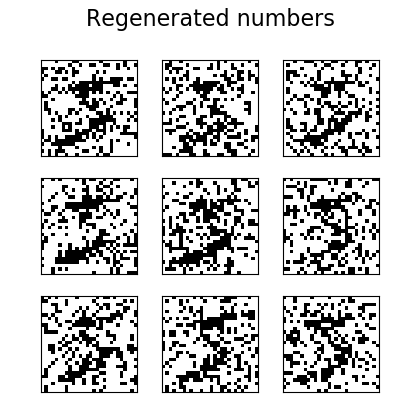
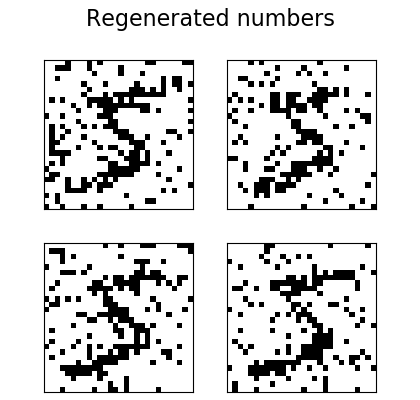
made nk, works with any graph

Changed region(s): [[0.0929, 0.15, 0.9286, 0.99]]

diff --git a/message_pass.py b/message_pass.py
@@ -6,9 +6,8 @@ from torch.utils.data import DataLoader
 
 class SparseMP():
 
-    def __init__(self, adj, local, adj_list, lr=0.1, damping=1., eps=1e-16, epochs=100, max_iters=10, batch_size=1, device=torch.device("cpu")):
+    def __init__(self, adj, local, row, col, lr=0.1, damping=1., eps=1e-16, epochs=100, max_iters=10, batch_size=1, device=torch.device("cpu")):
         #torch.manual_seed(0)
-        n = adj.shape[0]
         self.device = device
         self.max_iters = max_iters
         self.lr = lr
@@ -18,7 +17,8 @@ class SparseMP():
         self.batch_size = batch_size
         self.adj = adj
         self.local = local
-        self.adj_list = adj_list
+        self.row = row
+        self.col = col
 
     def train(self, train_set):
         """ Perform training for k-regular graph using loopy bp.
@@ -39,29 +39,24 @@ class SparseMP():
             self.update(data)
             i += 1
 
-    def in_to_out(self, message_in, adj_list):
-        n = adj_list.shape[0]
-        k = adj_list.shape[1]
-        range = torch.arange(n, dtype=torch.long, device=self.device).unsqueeze(1).expand(-1, k).contiguous().view(-1).unsqueeze(1)
-        mask = (adj_list.index_select(0, adj_list.view(-1)) == range)
-        return message_in.index_select(0, adj_list.view(-1))[mask]
-
     def free_mp(self):
         """ Message-passing for unclamped graphical model.
         """
         adj = self.adj
-        n = adj.shape[0]
-        k = adj.shape[1]
-        local = self.local.unsqueeze(1).expand(-1, k)
-        adj_list = self.adj_list
+        local = self.local
+        row = self.row
+        col= self.col
+        n = local.shape[0]
+        m = adj.shape[0]
+
         # Initialize to zeros because using log ratio
-        message_old = torch.zeros(n, k, device=self.device)
-        message_new = torch.zeros(n, k, device=self.device)
+        message_old = torch.zeros(m, device=self.device)
+        message_new = torch.zeros(m, device=self.device)
         iters = 0
         while iters == 0 or (iters < self.max_iters and torch.max(torch.abs(message_new - message_old)) > self.eps):
             message_old = message_new.clone()
-            message = torch.sum(message_old, 1).unsqueeze(1).expand(-1, k) - message_old
-            message_new = self.in_to_out(torch.log((torch.exp(local + adj + message) + 1) / (torch.exp(local + message) + 1)), adj_list).view(n, -1)
+            message = (torch.zeros(n, device=self.device).index_add_(0, row, message_old)[row] - message_old)[col]
+            message_new = torch.log((torch.exp(local[col] + adj + message) + 1) / (torch.exp(local[col] + message) + 1))
             message_new = message_new * self.damping + message_old * (1 - self.damping)
             iters+=1
         print("     %d iterations until convergence" % (iters))
@@ -74,33 +69,28 @@ class SparseMP():
         data : array-like, shape (n_data ** 2, n_batch)
             The data to use for training.
         """
-        n = self.adj.shape[0]
-        adj = self.adj.unsqueeze(2).expand(n, -1, self.batch_size)
-        k = adj.shape[1]
+        adj = self.adj.unsqueeze(1).expand(-1, self.batch_size)
         local = self.local.unsqueeze(1).expand(-1, self.batch_size)
-        adj_list = self.adj_list
+        row = self.row
+        col = self.col
+        n = local.shape[0]
         clamp = data.shape[0]
         # Add interaction of clamped units to local biases based on data vectors
-        data_adj = adj.clone()
-        data_adj[adj_list < clamp] *= data[adj_list[adj_list < clamp]]
-        data_adj[adj_list >= clamp] = 0
-        local += torch.sum(data_adj, 1)
-        local = torch.transpose(local.unsqueeze(2).expand(n, -1, k), 1, 2)
+        local.index_add_(0, col[row < clamp], adj[row < clamp] * data[row[row < clamp]])
         # Set interaction of clamped units to 0
-        adj[:clamp, :, :] = 0
-        adj[adj_list < clamp] = 0
+        adj[row < clamp] = 0
+        adj[col < clamp] = 0
 
-        message_old = self.message_free.clone().unsqueeze(2).repeat(1, 1, self.batch_size)
+        message_old = self.message_free.unsqueeze(1).repeat(1, self.batch_size)
         message_new = message_old.clone()
 
         iters = 0
         while iters == 0 or iters < self.max_iters and torch.max(torch.abs(message_new - message_old)) > self.eps:
             message_old = message_new.clone()
-            message = torch.transpose(torch.sum(message_old, 1).unsqueeze(2).expand(n, -1, k), 1, 2) - message_old
-            message_new = self.in_to_out(torch.log((torch.exp(local + adj + message) + 1) / (torch.exp(local + message) + 1)), adj_list=adj_list).view(n, -1, self.batch_size)
+            message = (torch.zeros((n, self.batch_size), device=self.device).index_add_(0, row, message_old)[row] - message_old)[col]
+            message_new = torch.log((torch.exp(local[col] + adj + message) + 1) / (torch.exp(local[col] + message) + 1))
             message_new = message_new * self.damping + message_old * (1 - self.damping)
             iters+=1
-
         self.message_clamp = message_new
 
     def update(self, data):
@@ -112,37 +102,32 @@ class SparseMP():
         """
         adj = self.adj
         local = self.local
-        adj_list = self.adj_list.clone()
-        n = adj.shape[0]
-        k = adj_list.shape[1]
+        row = self.row
+        col = self.col
+        n = local.shape[0]
         clamp = data.shape[0]
 
         # Calculate marginal joint probability
         message_free = self.message_free
-        local_i = local.unsqueeze(1).expand(-1, k)
-        local_j = local.unsqueeze(0).expand(n, -1).gather(1, adj_list)
-        msg_free_i = torch.sum(message_free, 1).unsqueeze(1).expand(-1, k) - message_free
-        msg_free_j = self.in_to_out(msg_free_i, adj_list=adj_list).view(n, -1)
-        p_ij_marg = 1 / (torch.exp(-(msg_free_i + msg_free_j + local_i + local_j + adj)) \
-        + torch.exp(-(msg_free_i + local_i + adj)) + torch.exp(-(msg_free_j + local_j + adj)) + 1)
+        msg_free = (torch.zeros(n, device=self.device).index_add_(0, row, message_free)[row] - message_free)
+        p_ij_marg = 1 / (torch.exp(-(msg_free + msg_free[col] + local[row] + local[col] + adj)) \
+        + torch.exp(-(msg_free + local[row] + adj)) + torch.exp(-(msg_free[col] + local[col] + adj)) + 1)
 
         # Calculate conditional joint probability
         message_clamp = self.message_clamp
-        adj = self.adj.unsqueeze(2).expand(n, -1, self.batch_size)
-        local_i = local_i.unsqueeze(2).expand(n, -1, self.batch_size)
-        local_j = local_j.unsqueeze(2).expand(n, -1, self.batch_size)
+        adj = self.adj.clone().unsqueeze(1).expand(-1, self.batch_size)
+        local = local.unsqueeze(1).expand(-1, self.batch_size)
         # Add unit that sends signal of +-100 based on data
-        msg_sum = torch.sum(message_clamp, 1)
+        msg_sum = torch.zeros((n, self.batch_size), device=self.device).index_add_(0, row, message_clamp)
         msg_sum[:clamp] += (data * 2 - 1) * 100
-        msg_clamp_i = torch.transpose(msg_sum.unsqueeze(2).expand(n, -1, k), 1, 2) - message_clamp
-        msg_clamp_j = self.in_to_out(msg_clamp_i, adj_list=adj_list).view(n, -1, self.batch_size)
-        p_ij_cond = 1 / (torch.exp(-(msg_clamp_i + msg_clamp_j + local_i + local_j + adj)) \
-        + torch.exp(-(msg_clamp_i + local_i + adj)) + torch.exp(-(msg_clamp_j + local_j + adj)) + 1)
-        p_ij_cond = torch.sum(p_ij_cond, 2) / self.batch_size
+        msg_clamp = msg_sum[row] - message_clamp
+        p_ij_cond = 1 / (torch.exp(-(msg_clamp + msg_clamp[col] + local[row] + local[col] + adj)) \
+        + torch.exp(-(msg_clamp + local[row] + adj)) + torch.exp(-(msg_clamp[col] + local[col] + adj)) + 1)
+        p_ij_cond = torch.sum(p_ij_cond, 1) / self.batch_size
 
         # Calculate marginal and condtional probabilities
-        p_i_marg = logistic(torch.sum(message_free, 1))
-        p_i_cond = torch.sum(logistic(torch.sum(message_clamp, 1)), 1) / self.batch_size
+        p_i_marg = logistic(torch.zeros(n, device=self.device).index_add_(0, row, message_free))
+        p_i_cond = torch.sum(logistic(torch.zeros((n, self.batch_size), device=self.device).index_add_(0, row, message_clamp)), 1) / self.batch_size
 
         # Update model parameters
         self.adj = torch.clamp(self.adj + self.lr * self.batch_size * (p_ij_cond - p_ij_marg), -0.95, 0.95)
@@ -158,15 +143,16 @@ class SparseMP():
         """
         adj = self.adj.clone()
         local = self.local
-        adj_list = self.adj_list
-        n = adj.shape[0]
-        k = adj_list.shape[1]
+        row = self.row
+        col = self.col
+        n = local.shape[0]
         # Initialize units to random weights
         x = torch.rand(n, device=self.device)
         # Sample iter times
         i = 0
         while i < iters:
-            prob = logistic(torch.sum(adj * x.unsqueeze(0).expand(n, -1).gather(1, adj_list), 1) + local)
+            #prob = logistic(torch.sum(adj * x.unsqueeze(0).expand(n, -1).gather(1, adj_list), 1) + local)
+            prob = logistic(torch.zeros(n, device=self.device).index_add_(0, row, adj * x[col]) + local)
             sample = torch.rand(n, device=self.device)
             x[prob > sample] = 1
             x[prob < sample] = 0

diff --git a/main.py b/main.py
@@ -8,7 +8,6 @@ import matplotlib
 matplotlib.use('Agg')
 import matplotlib.pyplot as plt
 import networkx as nx
-import igraph
 import numpy as np
 import scipy.sparse as sp
 from message_pass import SparseMP
@@ -23,17 +22,15 @@ if __name__ == "__main__":
         os.mkdir(root)
 
     # Generate k-regular graph
-    n, k = 100000, 5
+    n, k = 100000, 10
     G = nx.random_regular_graph(k, n, seed=42)
-    #G = nx.fast_gnp_random_graph(n=n, p=5e-4)
-    #G = igraph.Graph.Erdos_Renyi(n=n, p=5e-4)
-    #G = igraph.Graph.K_Regular(n, k)
+    #G = nx.fast_gnp_random_graph(n=n, p=k/n, seed=42)
     # min, max = 3, 10
     # upper = 10
     # y = np.zeros((max - min + 1) // 2)
     # x = np.arange(min, max, 2)
     # for k in x:
-    #     G = nx.random_regular_graph(k, n, seed=42)
+    #     G = nx.fast_gnp_random_graph(n=n, p=k/n, seed=42)
     #     lengths = np.fromiter((map(lambda x: len(x), nx.cycle_basis(G))), dtype=np.int)
     #     _, counts = np.unique(lengths, return_counts=True)
     #     y[(k - min) // 2] = np.sum(counts[:upper + 1])
@@ -42,20 +39,22 @@ if __name__ == "__main__":
     # plt.title("Cycles in graph of %d nodes" % (n))
     # plt.xlabel("Degree (k)")
     # plt.ylabel("Cycles of length <=%d" % (upper))
-    # savefig("cycles_%d.png" % (n))
+    # savefig("cycles_%d_ER.png" % (n))
     # plt.show()
     sparse_adj = nx.adjacency_matrix(G)
-    _, col = sparse_adj.nonzero()
-    adj_list = torch.from_numpy(col.reshape(n, -1)).type(torch.LongTensor)
+    row, col = sparse_adj.nonzero()
+    row = torch.from_numpy(row).type(torch.LongTensor)
+    col = torch.from_numpy(col).type(torch.LongTensor)
     if torch.cuda.is_available():
-        adj_list = adj_list.cuda()
-    adj = torch.zeros(n, k, device=device)
+        row = row.cuda()
+        col = col.cuda()
+    adj = torch.zeros(row.shape[0], device=device)
     local = torch.rand(n, device=device) - 0.5
 
     trans = transforms.Compose([transforms.ToTensor()])
     # if data does not exist, download mnist dataset
     train_set = dset.MNIST(root=root, train=True, transform=trans, download=True)
-    model = SparseMP(adj=adj, local=local, adj_list=adj_list, eps=1e-6, lr=0.05, epochs=100, batch_size=1, max_iters=10, device=device)
+    model = SparseMP(adj=adj, local=local, row=row, col=col, eps=1e-10, lr=0.5, epochs=10, batch_size=10, max_iters=10, device=device)
     model.train(train_set=train_set)
 
     # Generate n samples from graphical model
@@ -65,10 +64,10 @@ if __name__ == "__main__":
     plt.figure(figsize=(4.2, 4))
     for i in range(1, m ** 2 + 1):
         plt.subplot(m, m, i)
-        plt.imshow(model.gibbs(X0, 500), cmap=plt.cm.gray_r, interpolation='nearest')
+        plt.imshow(model.gibbs(X0, 100), cmap=plt.cm.gray_r, interpolation='nearest')
         plt.xticks(())
         plt.yticks(())
         print("SMP: " + str(i) + " images generated.")
     plt.suptitle('Regenerated numbers', fontsize=16)
     plt.subplots_adjust(0.08, 0.02, 0.92, 0.85, 0.08, 0.23)
-    savefig("gibbs_%d_%d.png" % (n, k))
+    savefig("gibbs_kr_%d_%d.png" % (n, k))
